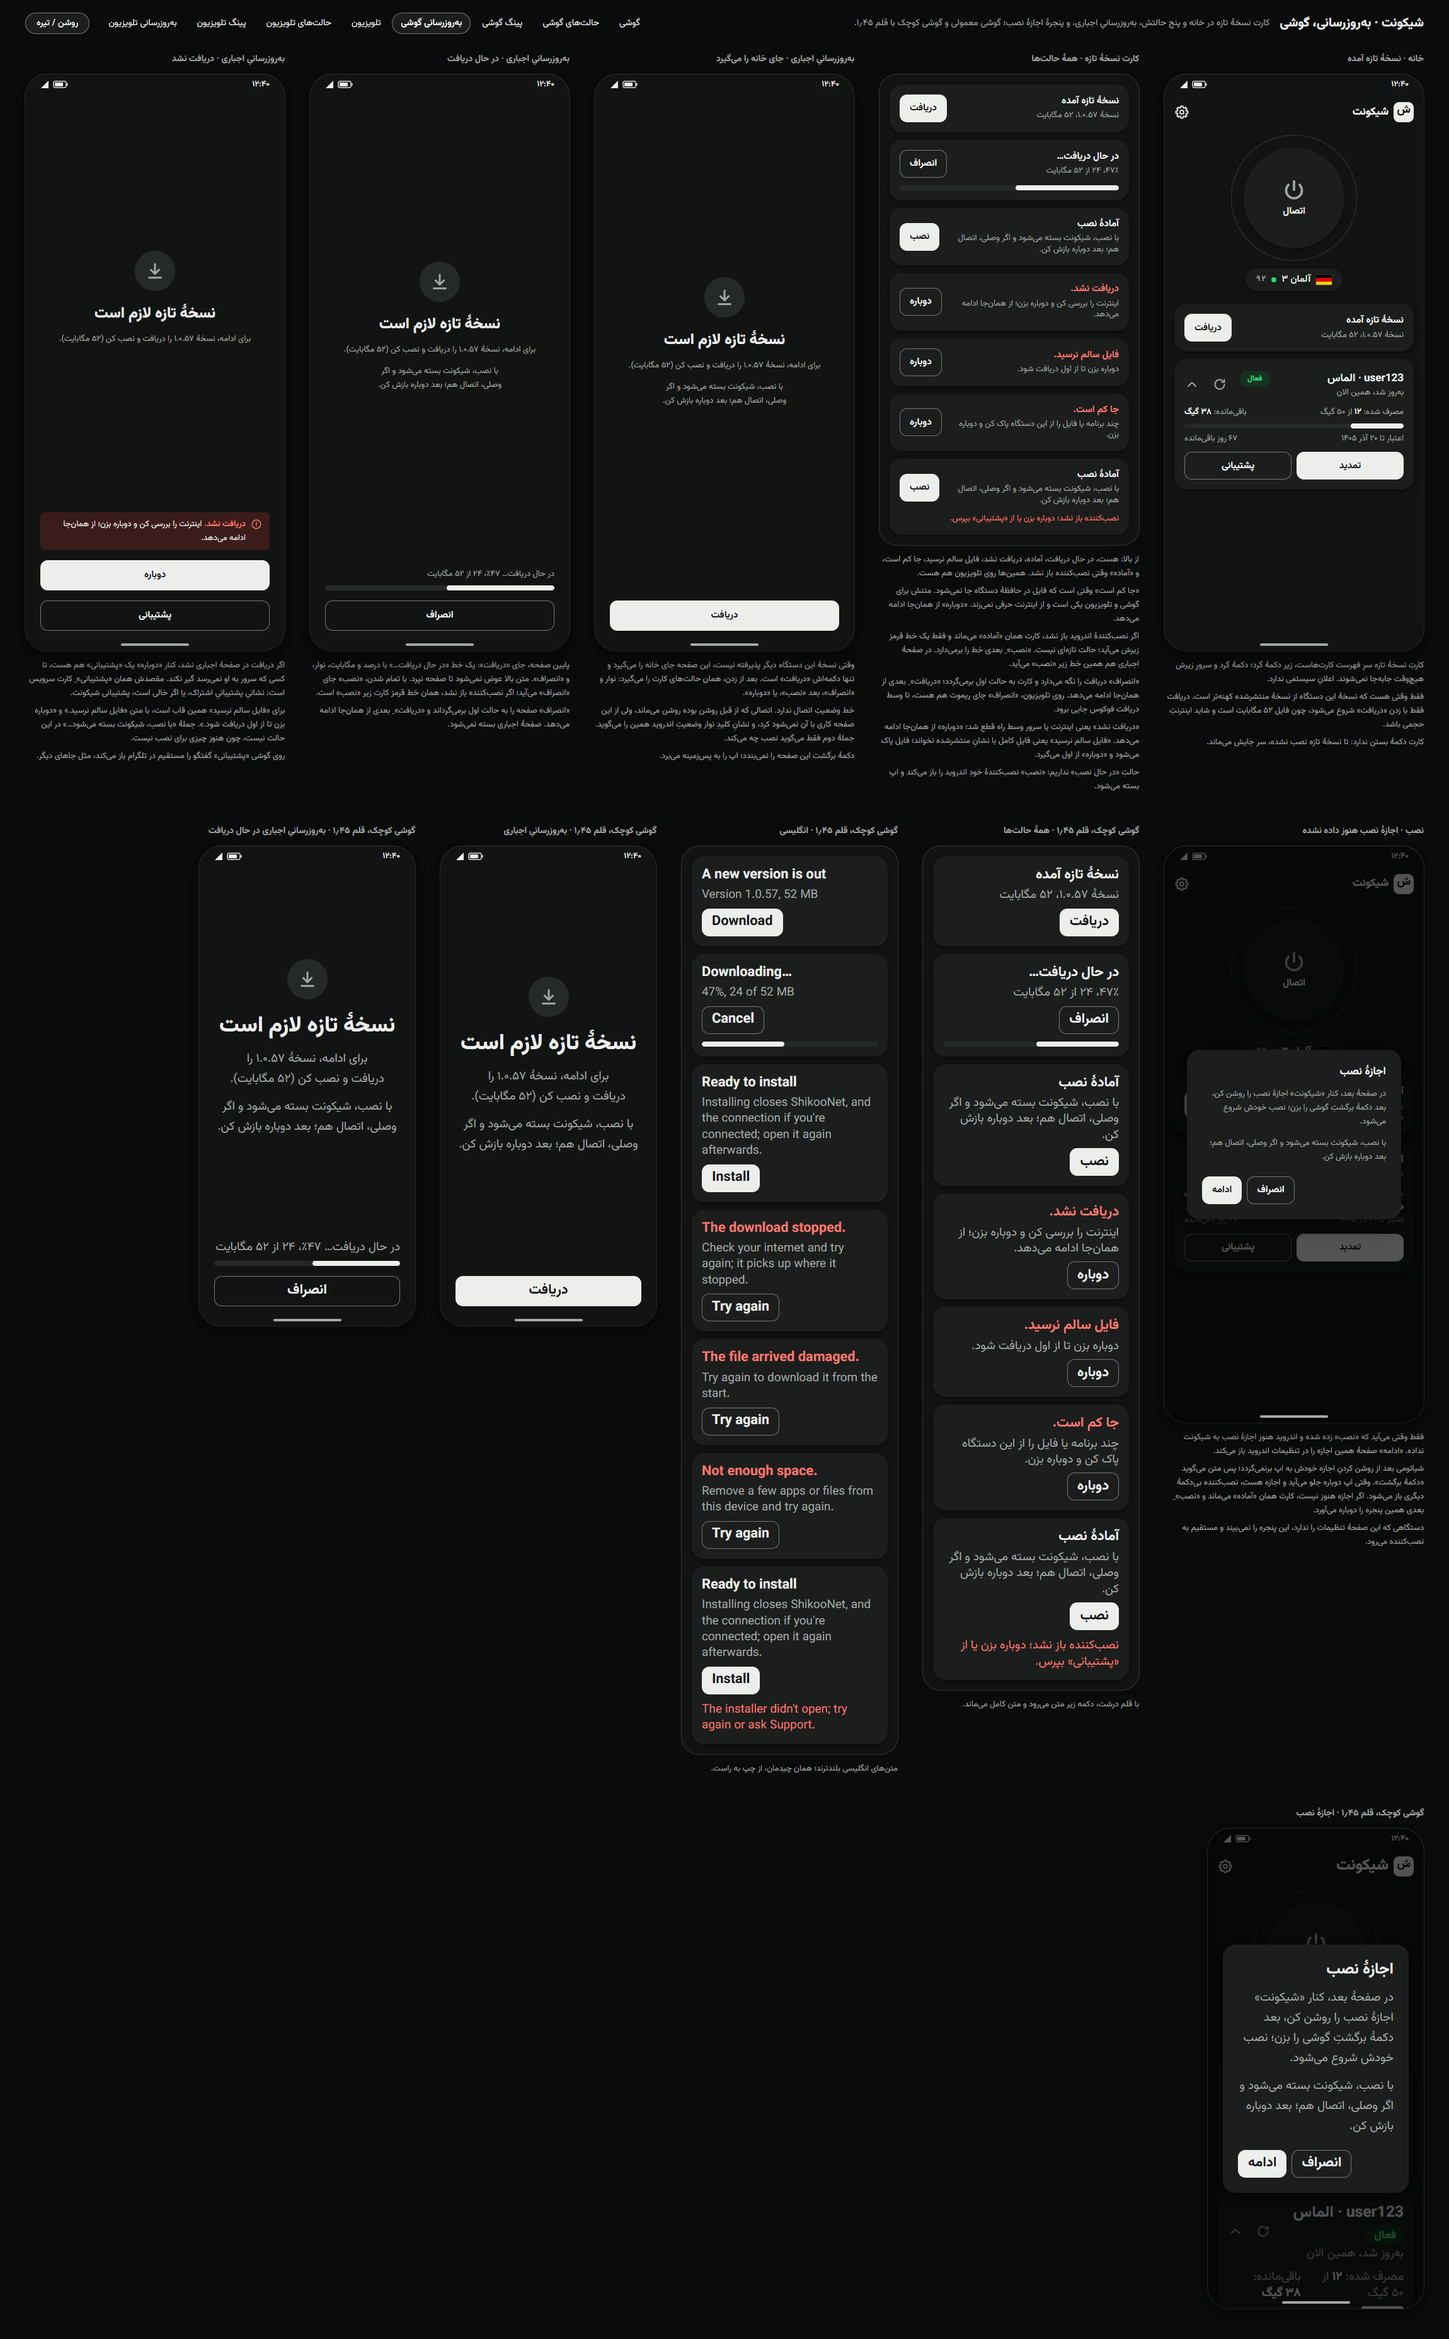
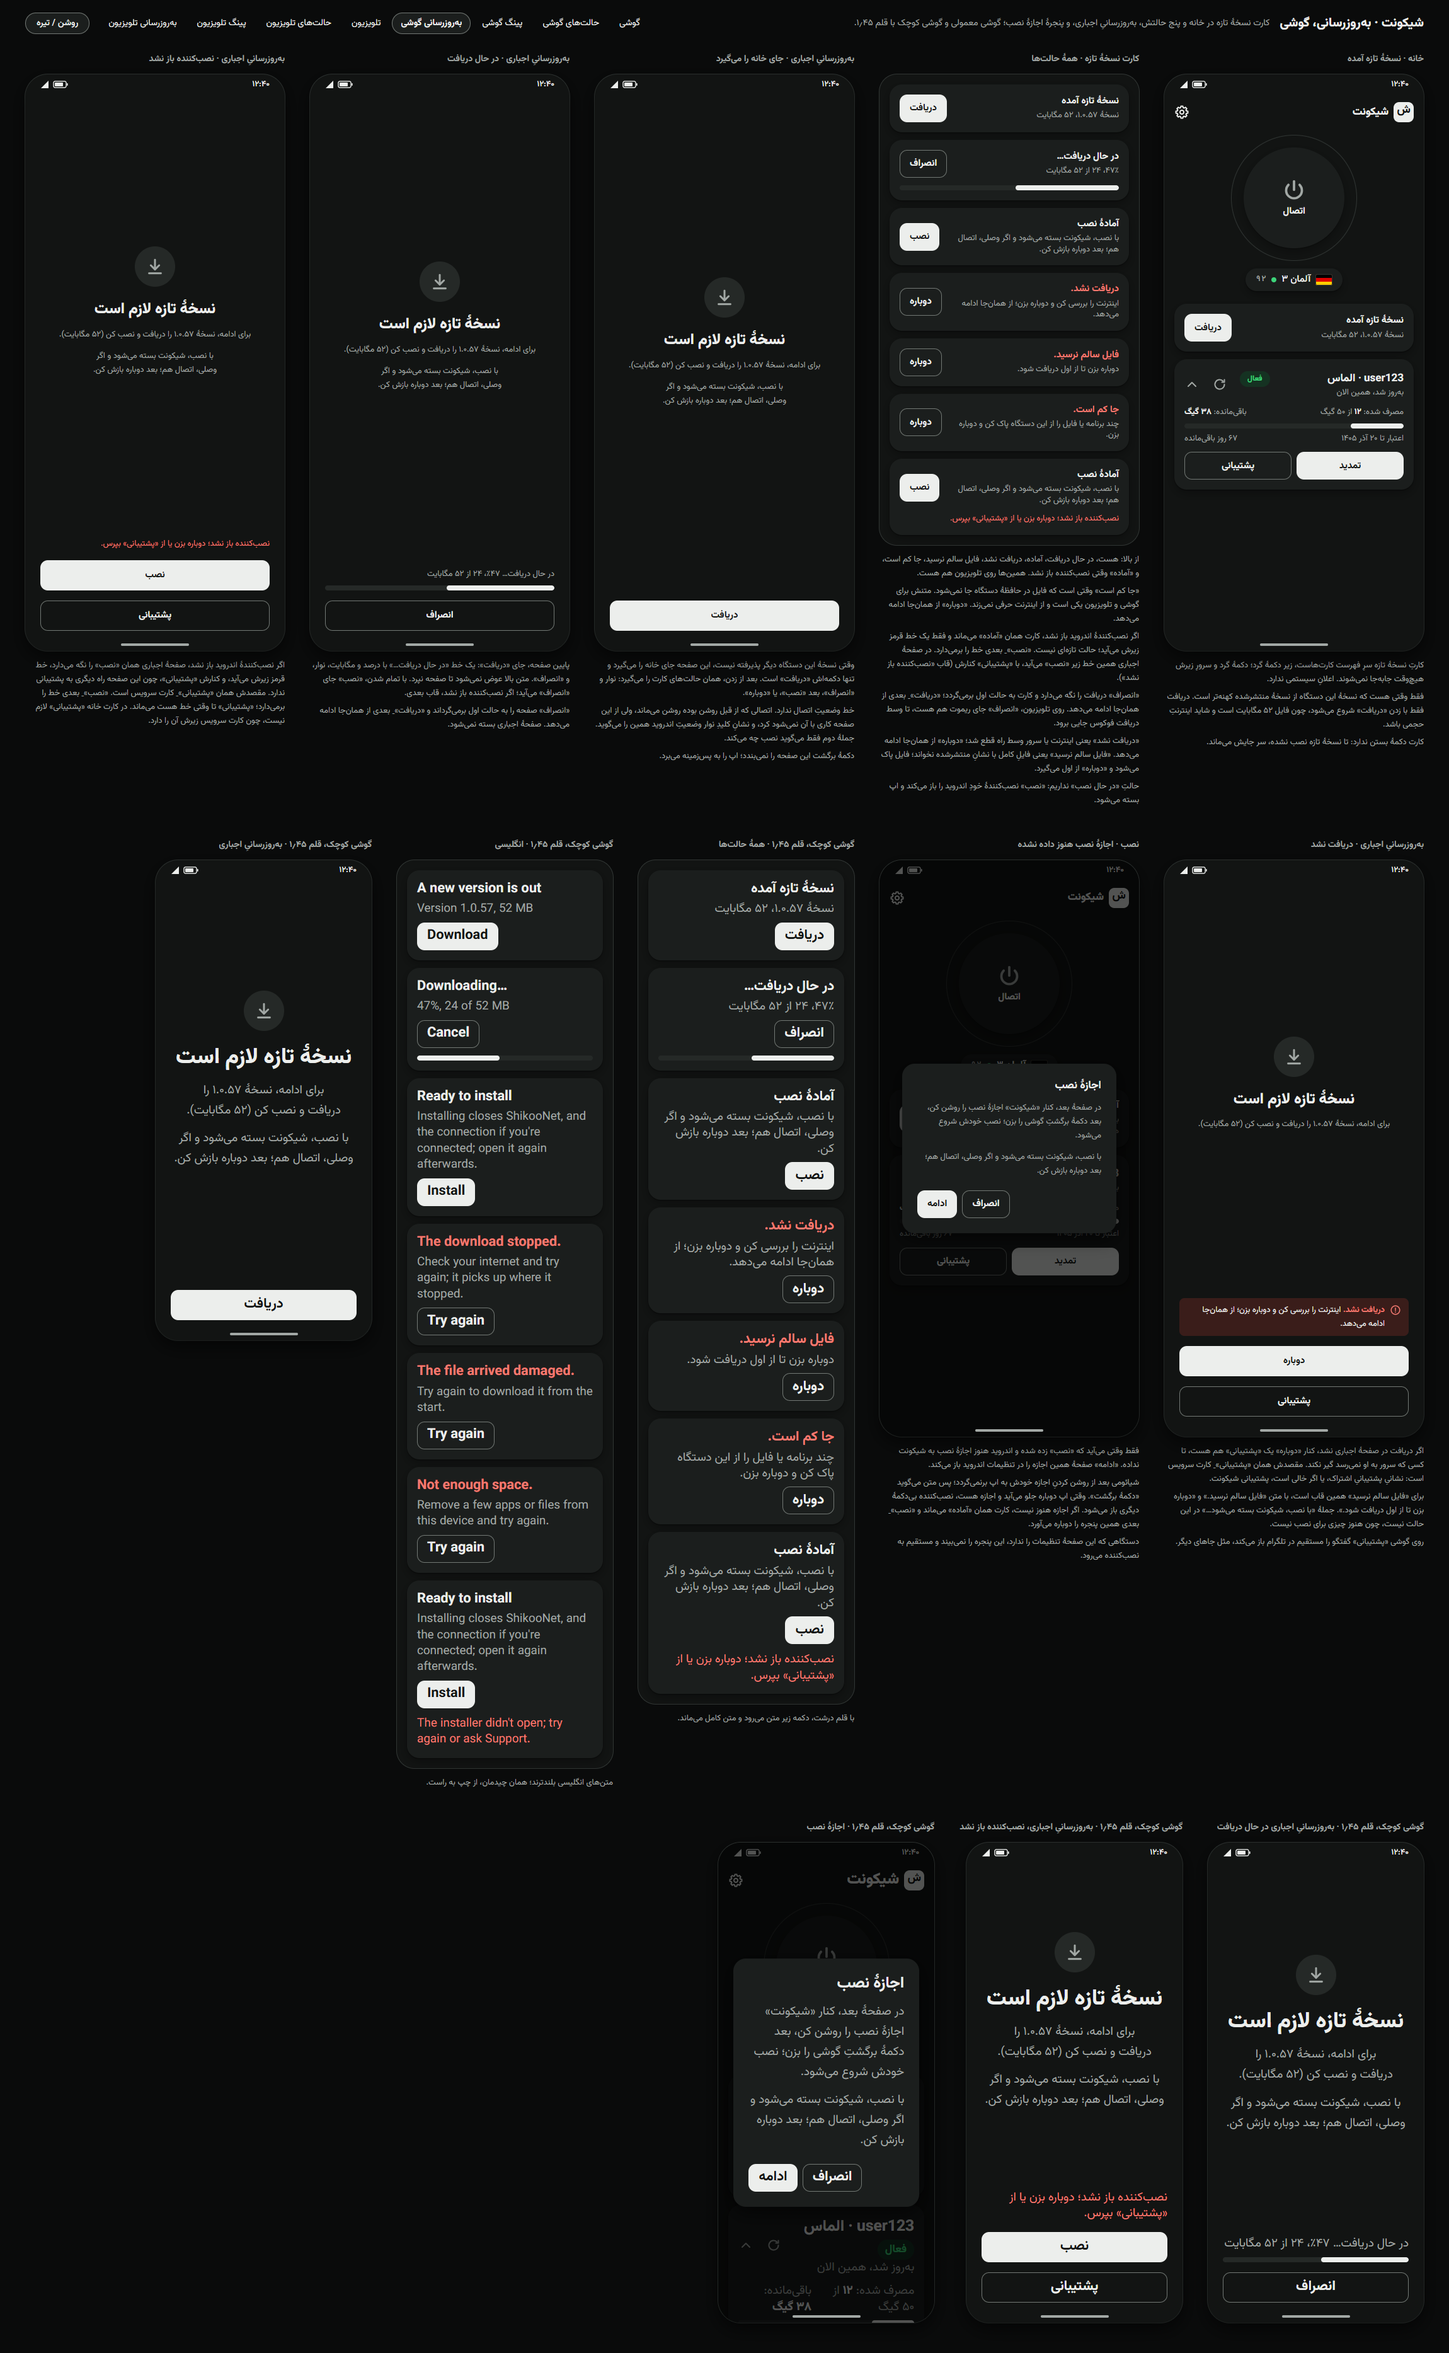
docs(design): give the forced page Support when the installer does not open
The red "installer didn't open" line told the customer to ask Support,
but the forced page had no Support button in its install state. It now
shows Support beside Install while the line is there; on TV the remote
starts on Install and Support opens the QR dialog. The red line keeps
its colour inside the TV result layout.

diff --git a/design/mockups/phone-update.html b/design/mockups/phone-update.html
@@ -108,7 +108,7 @@
     </div>
     <p class="note">از بالا: هست، در حال دریافت، آماده، دریافت نشد، فایل سالم نرسید، جا کم است، و «آماده» وقتی نصبکننده باز نشد. همینها روی تلویزیون هم هست.</p>
     <p class="note">«جا کم است» وقتی است که فایل در حافظهٔ دستگاه جا نمیشود. متنش برای گوشی و تلویزیون یکی است و از اینترنت حرفی نمیزند. «دوباره» از همانجا ادامه میدهد.</p>
-    <p class="note">اگر نصبکنندهٔ اندروید باز نشد، کارت همان «آماده» میماند و فقط یک خط قرمز زیرش میآید؛ حالت تازهای نیست. «نصب» ِ بعدی خط را برمیدارد. در صفحهٔ اجباری هم همین خط زیر «نصب» میآید.</p>
+    <p class="note">اگر نصبکنندهٔ اندروید باز نشد، کارت همان «آماده» میماند و فقط یک خط قرمز زیرش میآید؛ حالت تازهای نیست. «نصب» ِ بعدی خط را برمیدارد. در صفحهٔ اجباری همین خط زیر «نصب» میآید، با «پشتیبانی» کنارش (قاب «نصبکننده باز نشد»).</p>
     <p class="note">«انصراف» دریافت را نگه میدارد و کارت به حالت اول برمیگردد؛ «دریافت» ِ بعدی از همانجا ادامه میدهد. روی تلویزیون، «انصراف» جای ریموت هم هست، تا وسط دریافت فوکوس جایی برود.</p>
     <p class="note">«دریافت نشد» یعنی اینترنت یا سرور وسط راه قطع شد؛ «دوباره» از همانجا ادامه میدهد. «فایل سالم نرسید» یعنی فایلِ کامل با نشانِ منتشرشده نخواند؛ فایل پاک میشود و «دوباره» از اول میگیرد.</p>
     <p class="note">حالتِ «در حال نصب» نداریم: «نصب» نصبکنندهٔ خودِ اندروید را باز میکند و اپ بسته میشود.</p>
@@ -150,8 +150,28 @@
       </div>
       <div class="gesture"></div>
     </div>
-    <p class="note">پایین صفحه، جای «دریافت»: یک خط «در حال دریافت…» با درصد و مگابایت، نوار، و «انصراف». متن بالا عوض نمیشود تا صفحه نپرد. با تمام شدن، «نصب» جای «انصراف» میآید؛ اگر نصبکننده باز نشد، همان خط قرمز کارت زیر «نصب» است.</p>
+    <p class="note">پایین صفحه، جای «دریافت»: یک خط «در حال دریافت…» با درصد و مگابایت، نوار، و «انصراف». متن بالا عوض نمیشود تا صفحه نپرد. با تمام شدن، «نصب» جای «انصراف» میآید؛ اگر نصبکننده باز نشد، قاب بعدی.</p>
     <p class="note">«انصراف» صفحه را به حالت اول برمیگرداند و «دریافت» ِ بعدی از همانجا ادامه میدهد. صفحهٔ اجباری بسته نمیشود.</p>
+  </figure>
+
+  <figure class="shot">
+    <figcaption>بهروزرسانیِ اجباری · نصبکننده باز نشد</figcaption>
+    <div class="phone" data-frame="phone-update-forced-install-failed">
+      <div class="statusbar"><span>۱۲:۴۰</span><svg><use href="#sb"/></svg></div>
+      <div class="login">
+        <div class="login-brand">
+          <span class="hero-icon muted"><svg class="icon"><use href="#i-download"/></svg></span>
+          <span class="word">نسخهٔ تازه لازم است</span>
+          <span class="sub">برای ادامه، نسخهٔ ۱.۰.۵۷ را دریافت و نصب کن (۵۲ مگابایت).</span>
+          <span class="sub">با نصب، شیکونت بسته میشود و اگر وصلی، اتصال هم؛ بعد دوباره بازش کن.</span>
+        </div>
+        <p class="update-msg">نصبکننده باز نشد؛ دوباره بزن یا از «پشتیبانی» بپرس.</p>
+        <button class="btn btn-primary" type="button">نصب</button>
+        <button class="btn btn-outline" type="button">پشتیبانی</button>
+      </div>
+      <div class="gesture"></div>
+    </div>
+    <p class="note">اگر نصبکنندهٔ اندروید باز نشد، صفحهٔ اجباری همان «نصب» را نگه میدارد، خط قرمز زیرش میآید، و کنارش «پشتیبانی»، چون این صفحه راه دیگری به پشتیبانی ندارد. مقصدش همان «پشتیبانی» ِ کارت سرویس است. «نصب» ِ بعدی خط را برمیدارد؛ «پشتیبانی» تا وقتی خط هست میماند. در کارت خانه «پشتیبانی» لازم نیست، چون کارت سرویس زیرش آن را دارد.</p>
   </figure>
 
   <figure class="shot">
@@ -324,6 +344,25 @@
         </div>
         <div class="update-progress"><span>در حال دریافت… ۴۷٪، ۲۴ از ۵۲ مگابایت</span><div class="bar"><span style="inline-size: 47%"></span></div></div>
         <button class="btn btn-outline" type="button">انصراف</button>
+      </div>
+      <div class="gesture"></div>
+    </div>
+  </figure>
+
+  <figure class="shot">
+    <figcaption>گوشی کوچک، قلم ۱٫۴۵ · بهروزرسانیِ اجباری، نصبکننده باز نشد</figcaption>
+    <div class="phone small" data-font-scale style="--font-scale: 1.45" data-frame="phone-small-update-forced-install-failed">
+      <div class="statusbar"><span>۱۲:۴۰</span><svg><use href="#sb"/></svg></div>
+      <div class="login">
+        <div class="login-brand">
+          <span class="hero-icon muted"><svg class="icon"><use href="#i-download"/></svg></span>
+          <span class="word">نسخهٔ تازه لازم است</span>
+          <span class="sub">برای ادامه، نسخهٔ ۱.۰.۵۷ را دریافت و نصب کن (۵۲ مگابایت).</span>
+          <span class="sub">با نصب، شیکونت بسته میشود و اگر وصلی، اتصال هم؛ بعد دوباره بازش کن.</span>
+        </div>
+        <p class="update-msg">نصبکننده باز نشد؛ دوباره بزن یا از «پشتیبانی» بپرس.</p>
+        <button class="btn btn-primary" type="button">نصب</button>
+        <button class="btn btn-outline" type="button">پشتیبانی</button>
       </div>
       <div class="gesture"></div>
     </div>

diff --git a/design/mockups/tv-update.html b/design/mockups/tv-update.html
@@ -169,6 +169,28 @@
   </figure>
 
   <figure class="shot">
+    <figcaption>بهروزرسانیِ اجباری · نصبکننده باز نشد · ریموت روی «نصب»</figcaption>
+    <div class="tv" data-device="tv" data-frame="tv-update-forced-install-failed">
+      <header class="tv-top">
+        <div class="brand"><span class="mark">ش</span><span>شیکونت</span></div>
+      </header>
+      <div class="tv-result">
+        <span class="hero-icon muted"><svg class="icon"><use href="#i-download"/></svg></span>
+        <h1>نسخهٔ تازه لازم است</h1>
+        <p>برای ادامه، نسخهٔ ۱.۰.۵۷ را دریافت و نصب کن (۵۲ مگابایت).</p>
+        <p>با نصب، شیکونت بسته میشود و اگر وصلی، اتصال هم؛ بعد دوباره بازش کن.</p>
+        <p class="update-msg">نصبکننده باز نشد؛ دوباره بزن یا از «پشتیبانی» بپرس.</p>
+        <div class="actions">
+          <button class="btn btn-primary is-focused" type="button">نصب</button>
+          <button class="btn btn-outline" type="button"><svg class="icon"><use href="#i-qr"/></svg>پشتیبانی</button>
+        </div>
+      </div>
+    </div>
+    <p class="note">اگر نصبکنندهٔ اندروید باز نشد، صفحهٔ اجباری همان «نصب» را نگه میدارد، خط قرمز زیرش میآید، و کنارش «پشتیبانی»، چون این صفحه راه دیگری به پشتیبانی ندارد. مقصدش همان «پشتیبانی» ِ کارت سرویس است. «نصب» ِ بعدی خط را برمیدارد؛ «پشتیبانی» تا وقتی خط هست میماند. در کارت خانه «پشتیبانی» لازم نیست، چون کارت سرویس زیرش آن را دارد.</p>
+    <p class="note">ریموت اول روی «نصب» است و «پشتیبانی» جای دوم. «پشتیبانی» همان پنجرهٔ کد تصویریِ پشتیبانی را باز میکند و «بستن» ریموت را به «پشتیبانی» برمیگرداند.</p>
+  </figure>
+
+  <figure class="shot">
     <figcaption>بهروزرسانیِ اجباری · دریافت نشد · ریموت روی «دوباره»</figcaption>
     <div class="tv" data-device="tv" data-frame="tv-update-forced-failed">
       <header class="tv-top">

diff --git a/design/mockups/mockup.css b/design/mockups/mockup.css
@@ -323,7 +323,8 @@ ul { list-style: none; }
 .update-row strong { font-size: var(--text-body); font-weight: var(--font-weight-bold); line-height: var(--leading-tight); }
 .update-row small { font-size: var(--text-body-sm); line-height: var(--leading-tight); color: var(--color-text-muted); }
 .update.is-error strong { color: var(--color-danger); }
-.update-msg { font-size: var(--text-body-sm); line-height: var(--leading-tight); color: var(--color-danger); }
+.update-msg { font-size: var(--text-body-sm); line-height: var(--leading-tight); }
+.update-msg, .tv-result .update-msg { color: var(--color-danger); }
 .update-progress { display: flex; flex-direction: column; gap: var(--space-2); font-size: var(--text-body-sm); line-height: var(--leading-tight); color: var(--color-text-muted); }
 .tv-result .update-progress { inline-size: var(--size-dialog); }
 
